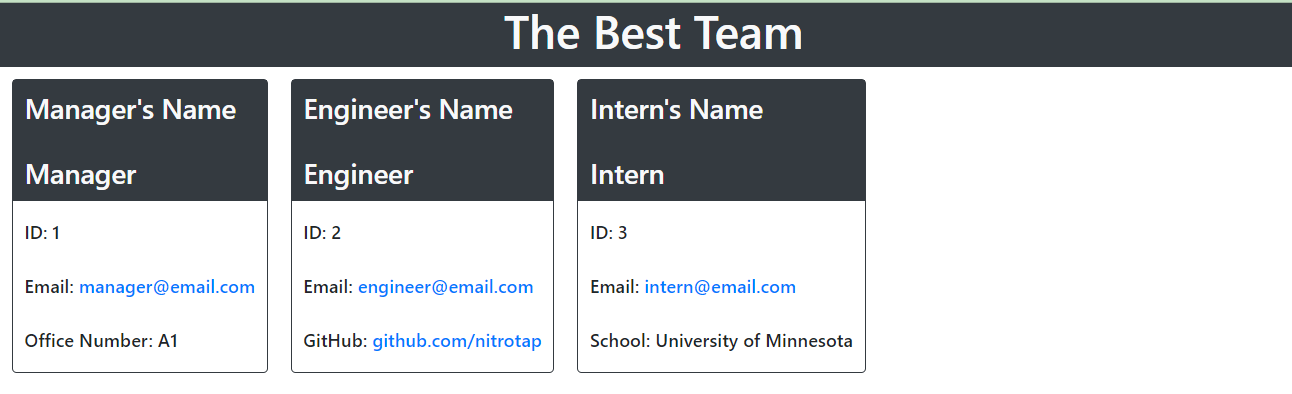
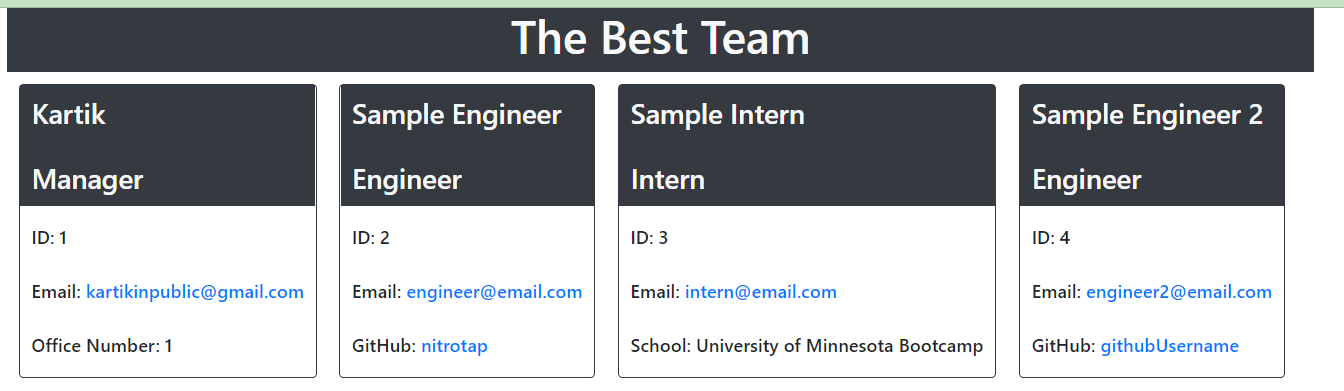
updating screenshots and sample

diff --git a/dist/sample-profile.html b/dist/sample-profile.html
@@ -16,12 +16,12 @@
         />
         <link rel="stylesheet" href="./assets/css/styles.css" />
     
-        <title>asdf</title>
+        <title>The Best Team</title>
       </head>
     
       <body class="container">
         <header class="row d-flex justify-content-center bg-dark text-light">
-          <h1 class="">asdf</h1>
+          <h1 class="">The Best Team</h1>
         </header>
     
         <main class="row">
@@ -31,18 +31,18 @@
     style="margin: 10px"
   >
     <div class="employee-name bg-dark text-light">
-      <h4 style="padding: 10px">asdf</h4>
+      <h4 style="padding: 10px">Kartik</h4>
       <h4 style="padding: 10px">Manager</h4>
 
     </div>
     <div class="employee-info">
-      <h6 style="padding: 10px">ID: asdf</h6>
+      <h6 style="padding: 10px">ID: 1</h6>
       <h6 style="padding: 10px">
         Email:
-        <a href="mailTo:asdf">asdf</a>
+        <a href="mailTo:kartikinpublic@gmail.com">kartikinpublic@gmail.com</a>
       </h6>
       <h6 style="padding: 10px">
-        Office Number: asdf
+        Office Number: 1
       </h6>
     </div>
   </article>
@@ -52,18 +52,18 @@
     style="margin: 10px"
   >
     <div class="employee-name bg-dark text-light">
-      <h4 style="padding: 10px">asdf</h4>
+      <h4 style="padding: 10px">Sample Engineer</h4>
       <h4 style="padding: 10px">Engineer</h4>
 
     </div>
     <div class="employee-info">
-      <h6 style="padding: 10px">ID: asdf</h6>
+      <h6 style="padding: 10px">ID: 2</h6>
       <h6 style="padding: 10px">
         Email:
-        <a href="mailTo:asdf">asdf</a>
+        <a href="mailTo:engineer@email.com">engineer@email.com</a>
       </h6>
       <h6 style="padding: 10px">
-        GitHub: <a href="https://www.github.com/asdf">asdf</a>
+        GitHub: <a href="https://www.github.com/nitrotap">nitrotap</a>
       </h6>
     </div>
   </article>
@@ -73,18 +73,18 @@
     style="margin: 10px"
   >
     <div class="employee-name bg-dark text-light">
-      <h4 style="padding: 10px">asdf</h4>
+      <h4 style="padding: 10px">Sample Intern</h4>
       <h4 style="padding: 10px">Intern</h4>
 
     </div>
     <div class="employee-info">
-      <h6 style="padding: 10px">ID: asdf</h6>
+      <h6 style="padding: 10px">ID: 3</h6>
       <h6 style="padding: 10px">
         Email:
-        <a href="mailTo:asdf">asdf</a>
+        <a href="mailTo:intern@email.com">intern@email.com</a>
       </h6>
       <h6 style="padding: 10px">
-        School: asdf
+        School: University of Minnesota Bootcamp
       </h6>
     </div>
   </article>
@@ -94,39 +94,18 @@
     style="margin: 10px"
   >
     <div class="employee-name bg-dark text-light">
-      <h4 style="padding: 10px">asdf</h4>
+      <h4 style="padding: 10px">Sample Engineer 2</h4>
       <h4 style="padding: 10px">Engineer</h4>
 
     </div>
     <div class="employee-info">
-      <h6 style="padding: 10px">ID: asdf</h6>
+      <h6 style="padding: 10px">ID: 4</h6>
       <h6 style="padding: 10px">
         Email:
-        <a href="mailTo:asdf">asdf</a>
+        <a href="mailTo:engineer2@email.com">engineer2@email.com</a>
       </h6>
       <h6 style="padding: 10px">
-        GitHub: <a href="https://www.github.com/aafd">aafd</a>
-      </h6>
-    </div>
-  </article>
-
-    <article
-    class="employee-card border border-dark rounded"
-    style="margin: 10px"
-  >
-    <div class="employee-name bg-dark text-light">
-      <h4 style="padding: 10px">asdf</h4>
-      <h4 style="padding: 10px">Manager</h4>
-
-    </div>
-    <div class="employee-info">
-      <h6 style="padding: 10px">ID: asdf</h6>
-      <h6 style="padding: 10px">
-        Email:
-        <a href="mailTo:asdf">asdf</a>
-      </h6>
-      <h6 style="padding: 10px">
-        Office Number: adsf
+        GitHub: <a href="https://www.github.com/githubUsername">githubUsername</a>
       </h6>
     </div>
   </article>

diff --git a/index.js b/index.js
@@ -129,7 +129,7 @@ let answerArray = []
 let employeeArray = []
 
 async function questions() {
-    console.log("Welcome to node-team-creator!")
+    console.log("Welcome to node-team-creator! Use Ctrl+c to quit.")
     let teamName = await inquirer.prompt({
         type: "input",
         name: "teamName",
@@ -157,8 +157,8 @@ async function questions() {
             confirm = false;
         }
     }
-    let cardHTML = []
 
+    let cardHTML = []
     for (let i in answerArray) {
         switch (answerArray[i].role) {
             case "Manager":
